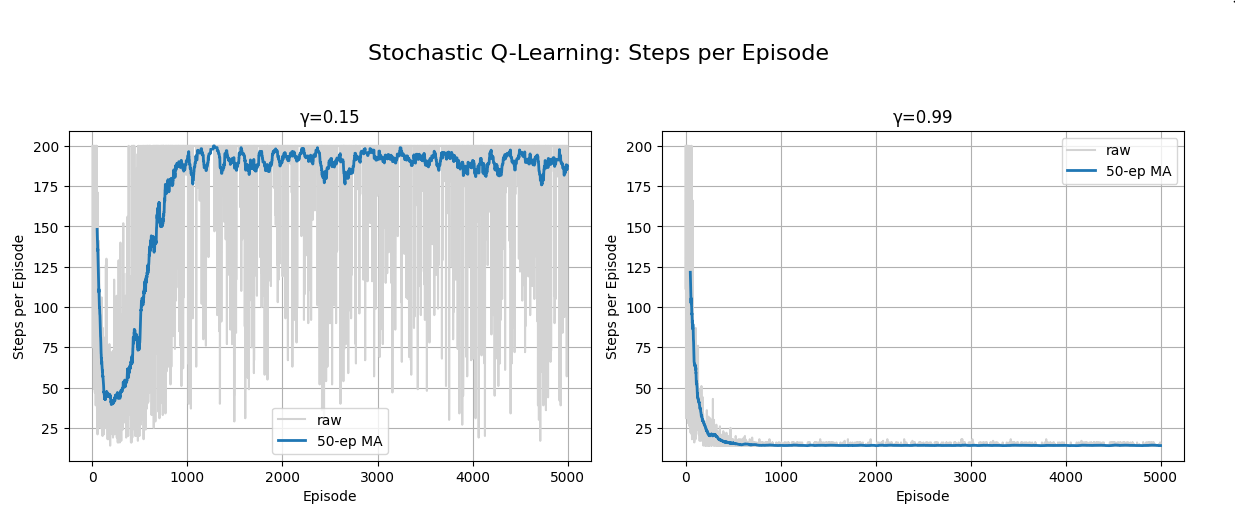
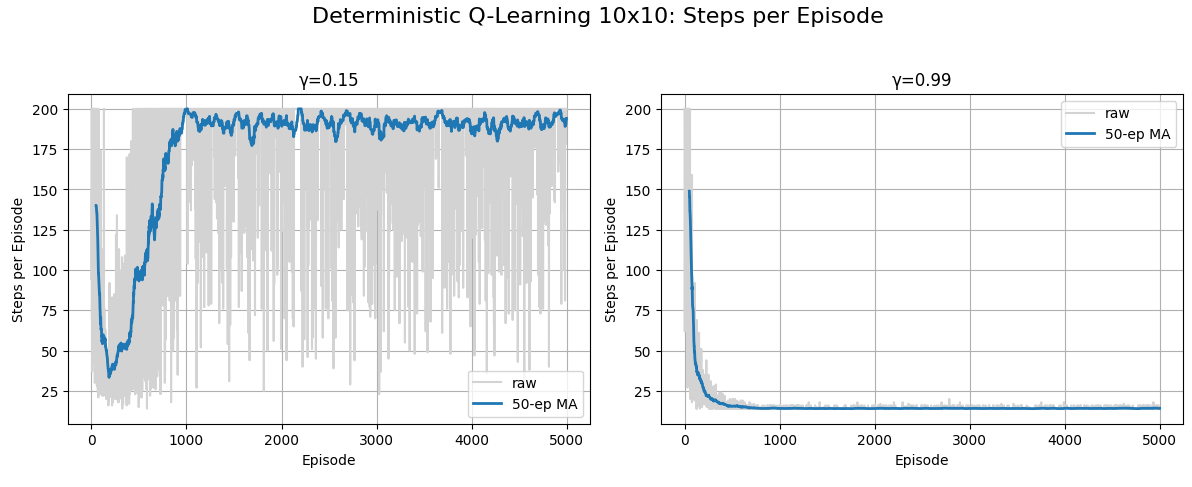
Last comment and improvement

diff --git a/Tabular Q-learning/SingleAgent_10x10.py b/Tabular Q-learning/SingleAgent_10x10.py
@@ -5,7 +5,6 @@ import sys
 import os
 import time
 
-# Add project root to path so we can import our environment
 sys.path.append(os.path.abspath(os.path.join(os.path.dirname(__file__), '..')))
 from env.env_singleAgent_10dim import SimpleSingleAgentEnv
 
@@ -25,6 +24,7 @@ kernel = np.ones(SMOOTH_WINDOW) / SMOOTH_WINDOW
 def state_to_index(env):
     """
     Hashable representation of state: (x, y, has_item).
+    Importante per rappresentare lo stato all'interno della tabella.
     """
     x, y = env.agent_pos
     has_item = int(env.agent_has_item)
@@ -40,18 +40,20 @@ class TabularQLearnerDeterministic:
         self.env = env
         self.gamma = gamma
         self.n_actions = N_ACTIONS
-        # Q-table: state-index -> action-values
+        # Q-table: init with 0 (best practice)
         self.Q = defaultdict(lambda: np.zeros(self.n_actions, dtype=np.float32))
-
+    #epsilon-greedy policy 
     def choose_action(self, state, epsilon):
+        #exploration
         if np.random.rand() < epsilon:
             return np.random.randint(self.n_actions)
+        #exploitation
         return int(np.argmax(self.Q[state]))
 
     def train(self):
-        rewards = []
-        steps = []
-        successes = []
+        rewards = [] #reward totale per episode
+        steps = []  # numero di step per completare l'episode
+        successes = []  #1 se l'episode ha avuto successo 0 altrimenti
         epsilon = EPSILON_START
 
         for ep in range(1, NUM_EPISODES + 1):
@@ -62,8 +64,11 @@ class TabularQLearnerDeterministic:
             success = False
 
             for _ in range(MAX_STEPS_PER_EPISODE):
+                #scelta dell'azione con algoritmo epsilon-greedy
                 action = self.choose_action(state, epsilon)
+                #esecuzioone dell'azione nell'ambiente
                 _, reward, done, _ = self.env.step(action)
+                #hash del nuovo stato
                 next_state = state_to_index(self.env)
 
                 # pure backup update
@@ -80,11 +85,12 @@ class TabularQLearnerDeterministic:
             rewards.append(total_reward)
             steps.append(step_count)
             successes.append(int(success))
-
+            #decrementa epsilon 
             epsilon = max(MIN_EPSILON, epsilon * EPSILON_DECAY)
 
         return np.array(rewards), np.array(steps), np.array(successes)
 
+    #valutazione sulla tabella precedentemente creata (Q-table) 
     def evaluate(self, episodes=100):
         total_returns = []
         for _ in range(episodes):
@@ -93,6 +99,7 @@ class TabularQLearnerDeterministic:
             ep_reward = 0.0
             done = False
             while not done:
+                #no exploration in questo caso
                 action = int(np.argmax(self.Q[state]))
                 _, reward, done, _ = self.env.step(action)
                 ep_reward += reward
@@ -104,7 +111,6 @@ class TabularQLearnerDeterministic:
 if __name__ == '__main__':
     results = {}
 
-    # Train for each gamma on the deterministic 10×10 env
     for gamma in GAMMAS:
         print(f"Training deterministic 10×10 γ={gamma} …")
         env = SimpleSingleAgentEnv(size=10, randomize=False)
@@ -122,7 +128,6 @@ if __name__ == '__main__':
             'success': cum_success
         }
 
-        # Plot metrics in single-row layout
     metrics = [
         ('reward',  'Total Reward per Episode'),
         ('steps',   'Steps per Episode'),
@@ -131,7 +136,7 @@ if __name__ == '__main__':
 
     for key, title in metrics:
         fig, axes = plt.subplots(1, len(results), figsize=(6 * len(results), 5))
-        fig.suptitle(f"Stochastic Q-Learning: {title}", fontsize=16)
+        fig.suptitle(f"Deterministic Q-Learning 10x10: {title}", fontsize=16)
 
         for idx, (gamma, data) in enumerate(results.items()):
             ax = axes[idx] if len(results) > 1 else axes

diff --git a/Tabular Q-learning/ND_SingleAgent_10x10.py b/Tabular Q-learning/ND_SingleAgent_10x10.py
@@ -5,7 +5,6 @@ import sys
 import os
 import time
 
-# Add project root to path so we can import our environment
 sys.path.append(os.path.abspath(os.path.join(os.path.dirname(__file__), '..')))
 from env.ND_env_SingleAgent_10x10 import SimpleSingleAgentEnv
 
@@ -26,6 +25,7 @@ kernel = np.ones(SMOOTH_WINDOW) / SMOOTH_WINDOW
 def state_to_index(env):
     """
     Maps environment state to a hashable index for Q-table keys.
+    Importante per rappresentare lo stato all'interno della tabella.
     """
     x, y = env.agent_pos
     has_item = int(env.agent_has_item)
@@ -41,7 +41,6 @@ class TabularQLearnerStochastic:
         self.env = env
         self.gamma = gamma
         self.n_actions = N_ACTIONS
-        # Q-table: state-index -> action-values
         self.Q = defaultdict(lambda: np.zeros(self.n_actions, dtype=np.float32))
         # Visit counts for (s,a)
         self.visits = defaultdict(lambda: np.zeros(self.n_actions, dtype=np.int32))
@@ -53,9 +52,9 @@ class TabularQLearnerStochastic:
         return int(np.argmax(self.Q[state]))
 
     def train(self):
-        rewards_per_episode = []
-        steps_per_episode = []
-        success_per_episode = []
+        rewards_per_episode = [] #reward totale per episode
+        steps_per_episode = [] # numero di step per completare l'episode
+        success_per_episode = [] #1 se l'episode ha avuto successo 0 altrimenti
         epsilon = EPSILON_START
 
         for ep in range(1, NUM_EPISODES + 1):
@@ -66,8 +65,11 @@ class TabularQLearnerStochastic:
             success = False
 
             for _ in range(MAX_STEPS_PER_EPISODE):
+                #scelta dell'azione con algoritmo epsilon-greedy
                 action = self.choose_action(state, epsilon)
+                #esecuzione dell'azione
                 _, reward, done, _ = self.env.step(action)
+                #hash del nuovo stato
                 next_state = state_to_index(self.env)
 
                 if done and reward >= 10:
@@ -96,7 +98,8 @@ class TabularQLearnerStochastic:
             success_per_episode.append(1 if success else 0)
 
         return rewards_per_episode, steps_per_episode, success_per_episode
-
+    
+    #effettuiamo l'evaluation sulla q-table precedentemente costruita
     def evaluate(self, episodes=100):
         total_returns = []
         for _ in range(episodes):
@@ -116,7 +119,6 @@ class TabularQLearnerStochastic:
 if __name__ == '__main__':
     results = {}
 
-    # Train for each gamma on the stochastic env
     for gamma in GAMMAS:
         print(f"Training stochastic γ={gamma} …")
         env = SimpleSingleAgentEnv(size=10, randomize=False)

diff --git a/Tabular Q-learning/ND_SingleAgent_5x5.py b/Tabular Q-learning/ND_SingleAgent_5x5.py
@@ -5,7 +5,6 @@ import sys
 import os
 import time
 
-# Add project root to path so we can import our environment
 sys.path.append(os.path.abspath(os.path.join(os.path.dirname(__file__), '..')))
 from env.ND_env_SingleAgent_5x5 import SimpleSingleAgentEnv
 
@@ -26,6 +25,7 @@ kernel = np.ones(SMOOTH_WINDOW) / SMOOTH_WINDOW
 def state_to_index(env):
     """
     Maps environment state to a hashable index for Q-table keys.
+    Importante per rappresentare lo stato all'interno della tabella.
     """
     x, y = env.agent_pos
     has_item = int(env.agent_has_item)
@@ -41,7 +41,6 @@ class TabularQLearnerStochastic:
         self.env = env
         self.gamma = gamma
         self.n_actions = N_ACTIONS
-        # Q-table: state-index -> action-values
         self.Q = defaultdict(lambda: np.zeros(self.n_actions, dtype=np.float32))
         # Visit counts for (s,a)
         self.visits = defaultdict(lambda: np.zeros(self.n_actions, dtype=np.int32))
@@ -53,9 +52,9 @@ class TabularQLearnerStochastic:
         return int(np.argmax(self.Q[state]))
 
     def train(self):
-        rewards_per_episode = []
-        steps_per_episode = []
-        success_per_episode = []
+        rewards_per_episode = [] #reward totale per episode
+        steps_per_episode = [] # numero di step per completare l'episode
+        success_per_episode = [] #1 se l'episode ha avuto successo 0 altrimenti
         epsilon = EPSILON_START
 
         for ep in range(1, NUM_EPISODES + 1):
@@ -66,8 +65,11 @@ class TabularQLearnerStochastic:
             success = False
 
             for _ in range(MAX_STEPS_PER_EPISODE):
+                #scelta dell'azione con algoritmo epsilon-greedy
                 action = self.choose_action(state, epsilon)
+                #esecuzione dell'azione
                 _, reward, done, _ = self.env.step(action)
+                #hash del nuovo stato
                 next_state = state_to_index(self.env)
 
                 if done and reward >= 10:
@@ -96,7 +98,8 @@ class TabularQLearnerStochastic:
             success_per_episode.append(1 if success else 0)
 
         return rewards_per_episode, steps_per_episode, success_per_episode
-
+    
+    #effettuiamo l'evaluation sulla q-table precedentemente costruita
     def evaluate(self, episodes=100):
         total_returns = []
         for _ in range(episodes):
@@ -116,7 +119,6 @@ class TabularQLearnerStochastic:
 if __name__ == '__main__':
     results = {}
 
-    # Train for each gamma on the stochastic env
     for gamma in GAMMAS:
         print(f"Training stochastic γ={gamma} …")
         env = SimpleSingleAgentEnv(size=5, randomize=False)

diff --git a/Tabular Q-learning/SingleAgent_5x5.py b/Tabular Q-learning/SingleAgent_5x5.py
@@ -5,7 +5,6 @@ import sys
 import os
 import time
 
-# Add project root to path so we can import our environment
 sys.path.append(os.path.abspath(os.path.join(os.path.dirname(__file__), '..')))
 from env.env_SingleAgent import SimpleSingleAgentEnv
 
@@ -25,6 +24,7 @@ kernel = np.ones(SMOOTH_WINDOW) / SMOOTH_WINDOW
 def state_to_index(env):
     """
     Maps environment state to a hashable index for Q-table keys.
+    Importante per rappresentare lo stato all'interno della tabella.
     """
     x, y = env.agent_pos
     has_item = int(env.agent_has_item)
@@ -49,9 +49,9 @@ class TabularQLearnerDeterministic:
         return int(np.argmax(self.Q[state]))
 
     def train(self):
-        rewards = []
-        steps = []
-        successes = []
+        rewards = [] #reward totale per episode
+        steps = []  # numero di step per completare l'episode
+        successes = []  #1 se l'episode ha avuto successo 0 altrimenti
         epsilon = EPSILON_START
 
         for ep in range(1, NUM_EPISODES + 1):
@@ -62,8 +62,11 @@ class TabularQLearnerDeterministic:
             success = False
 
             for _ in range(MAX_STEPS_PER_EPISODE):
+                #scelta dell'azione con algoritmo epsilon-greedy
                 action = self.choose_action(state, epsilon)
+                #esecuzione dell'azione
                 _, reward, done, _ = self.env.step(action)
+                #hash del nuovo stato
                 next_state = state_to_index(self.env)
 
                 # pure backup update
@@ -89,6 +92,7 @@ class TabularQLearnerDeterministic:
 
         return np.array(rewards), np.array(steps), np.array(successes, dtype=int)
 
+    #effettuiamo l'evaluation sulla q-table precedentemente costruita
     def evaluate(self, episodes=100):
         total_returns = []
         for _ in range(episodes):
@@ -108,7 +112,6 @@ class TabularQLearnerDeterministic:
 if __name__ == '__main__':
     results = {}
 
-    # Train for each gamma on the deterministic env
     for gamma in GAMMAS:
         print(f"Training deterministic γ={gamma} …")
         env = SimpleSingleAgentEnv(size=5, randomize=False)
@@ -136,7 +139,7 @@ if __name__ == '__main__':
 
     for key, title in metrics:
         fig, axes = plt.subplots(1, len(results), figsize=(6 * len(results), 5))
-        fig.suptitle(f"Stochastic Q-Learning: {title}", fontsize=16)
+        fig.suptitle(f"Deterministic Q-Learning 5x5: {title}", fontsize=16)
 
         for idx, (gamma, data) in enumerate(results.items()):
             ax = axes[idx] if len(results) > 1 else axes

diff --git a/Tabular Q-learning/MultiAgent5x5(purebackup).py b/Tabular Q-learning/MultiAgent5x5(purebackup).py
@@ -4,7 +4,6 @@ from collections import defaultdict
 import time
 import sys, os
 
-# Add project root to path so we can import our environment
 sys.path.append(os.path.abspath(os.path.join(os.path.dirname(__file__), '..')))
 from env.env_MultiAgent import SimpleGridWorld
 
@@ -51,8 +50,9 @@ if __name__ == '__main__':
             # ε-greedy actions
             a1 = np.random.randint(N_ACTIONS) if np.random.rand() < eps1 else int(np.argmax(Q1[state]))
             a2 = np.random.randint(N_ACTIONS) if np.random.rand() < eps2 else int(np.argmax(Q2[state]))
-
+            #esecuzione delle azioni
             _, (r1, r2), done, _ = env.step([a1, a2])
+            #hash del nuovo stato
             next_state = state_to_index(env)
 
             # pure backup updates: Q = r + γ max Q(next)
@@ -65,9 +65,10 @@ if __name__ == '__main__':
             steps += 1
 
             if done:
-                success = (r1 > 0 and r2 > 0)
+                success = (r1 >= 10 and r2 >= 10)
                 break
-
+        
+        #decay epsilon
         eps1 = max(MIN_EPSILON, eps1 * EPSILON_DECAY)
         eps2 = max(MIN_EPSILON, eps2 * EPSILON_DECAY)
 
@@ -76,6 +77,7 @@ if __name__ == '__main__':
         steps_log.append(steps)
         success_log.append(int(success))
 
+        #print di debug
         if ep % 1000 == 0:
             print(f"Episode {ep:5d} | R1={np.mean(rewards1[-1000:]):.2f} R2={np.mean(rewards2[-1000:]):.2f} "
                   f"Success={np.mean(success_log[-1000:]):.2f}")

diff --git a/Tabular Q-learning/MultiAgent_5x5.py b/Tabular Q-learning/MultiAgent_5x5.py
@@ -81,7 +81,7 @@ if __name__ == '__main__':
             # check team success (rescue)
             if done:
                 # _can_rescue_victim is true when rescue, else death by fire
-                if (r1 > 0 and r2 > 0):
+                if (r1 >= 10 and r2 >= 10):
                     success = True
                 break
 
